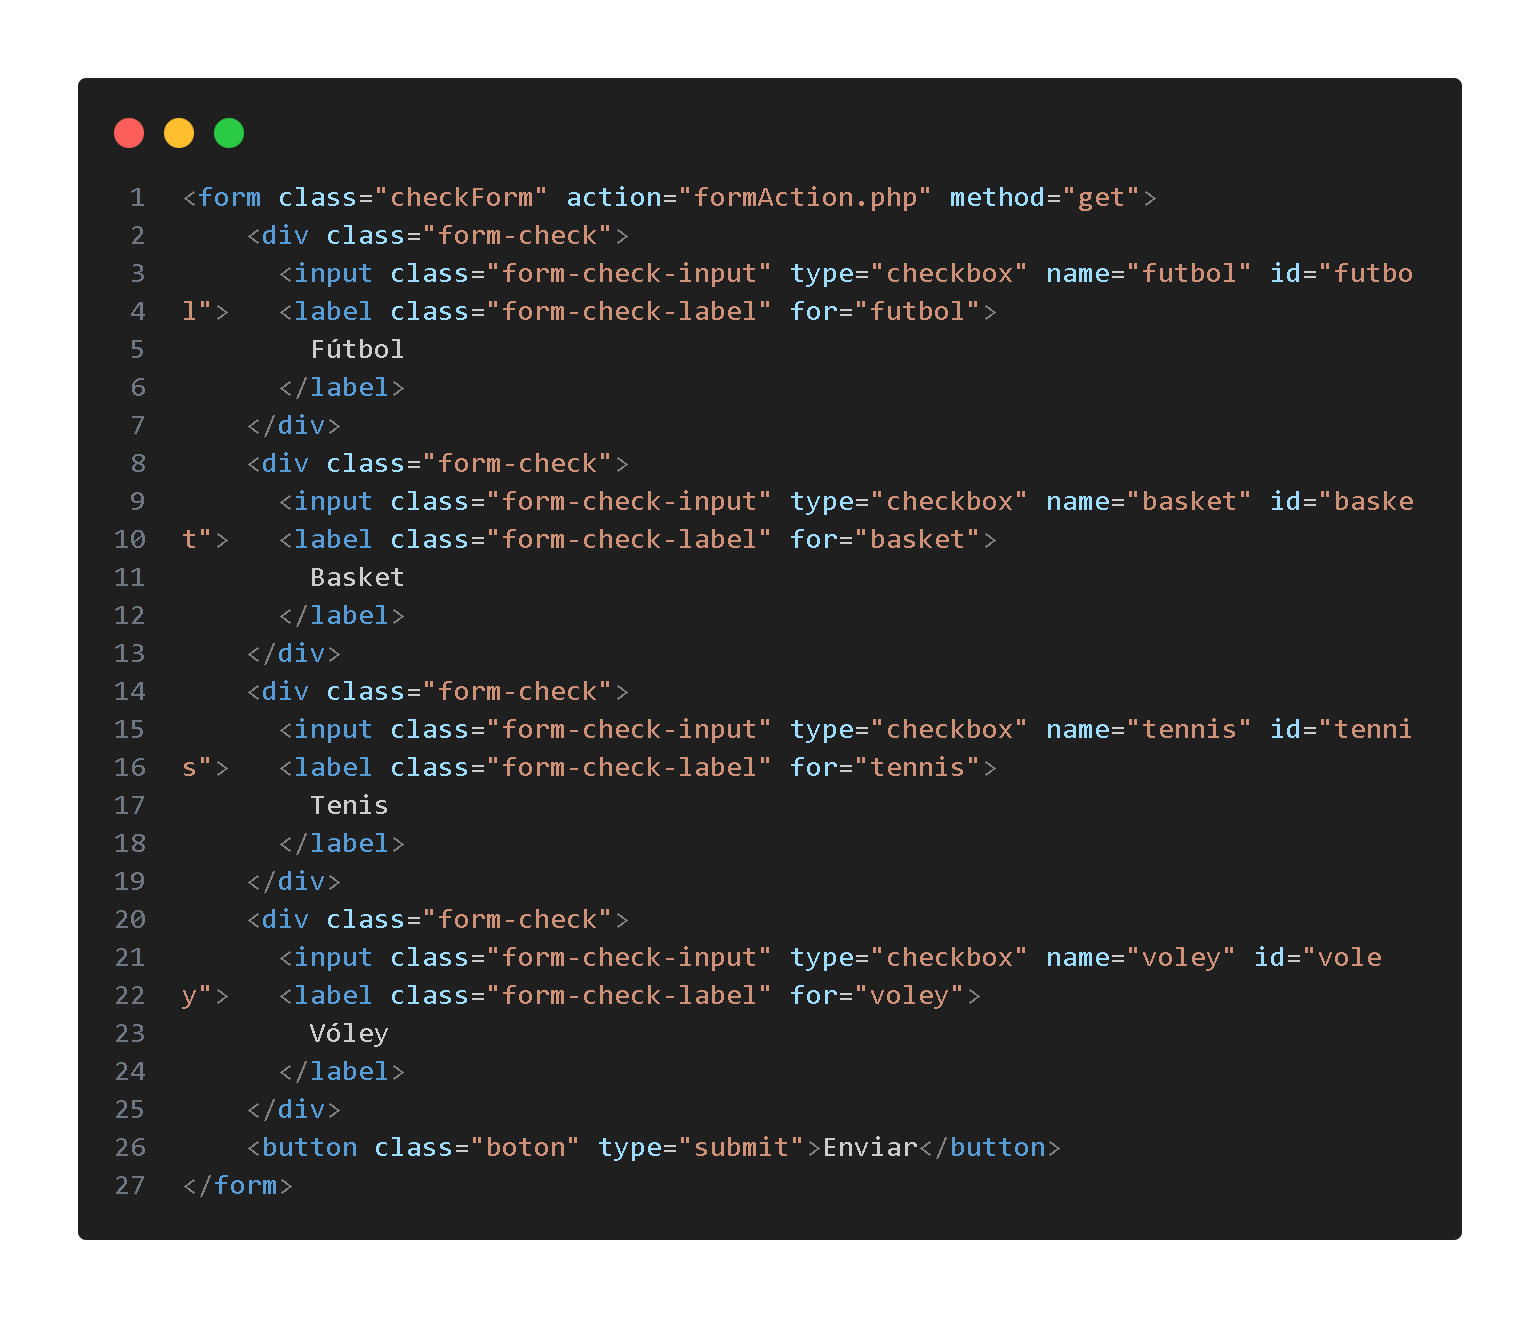
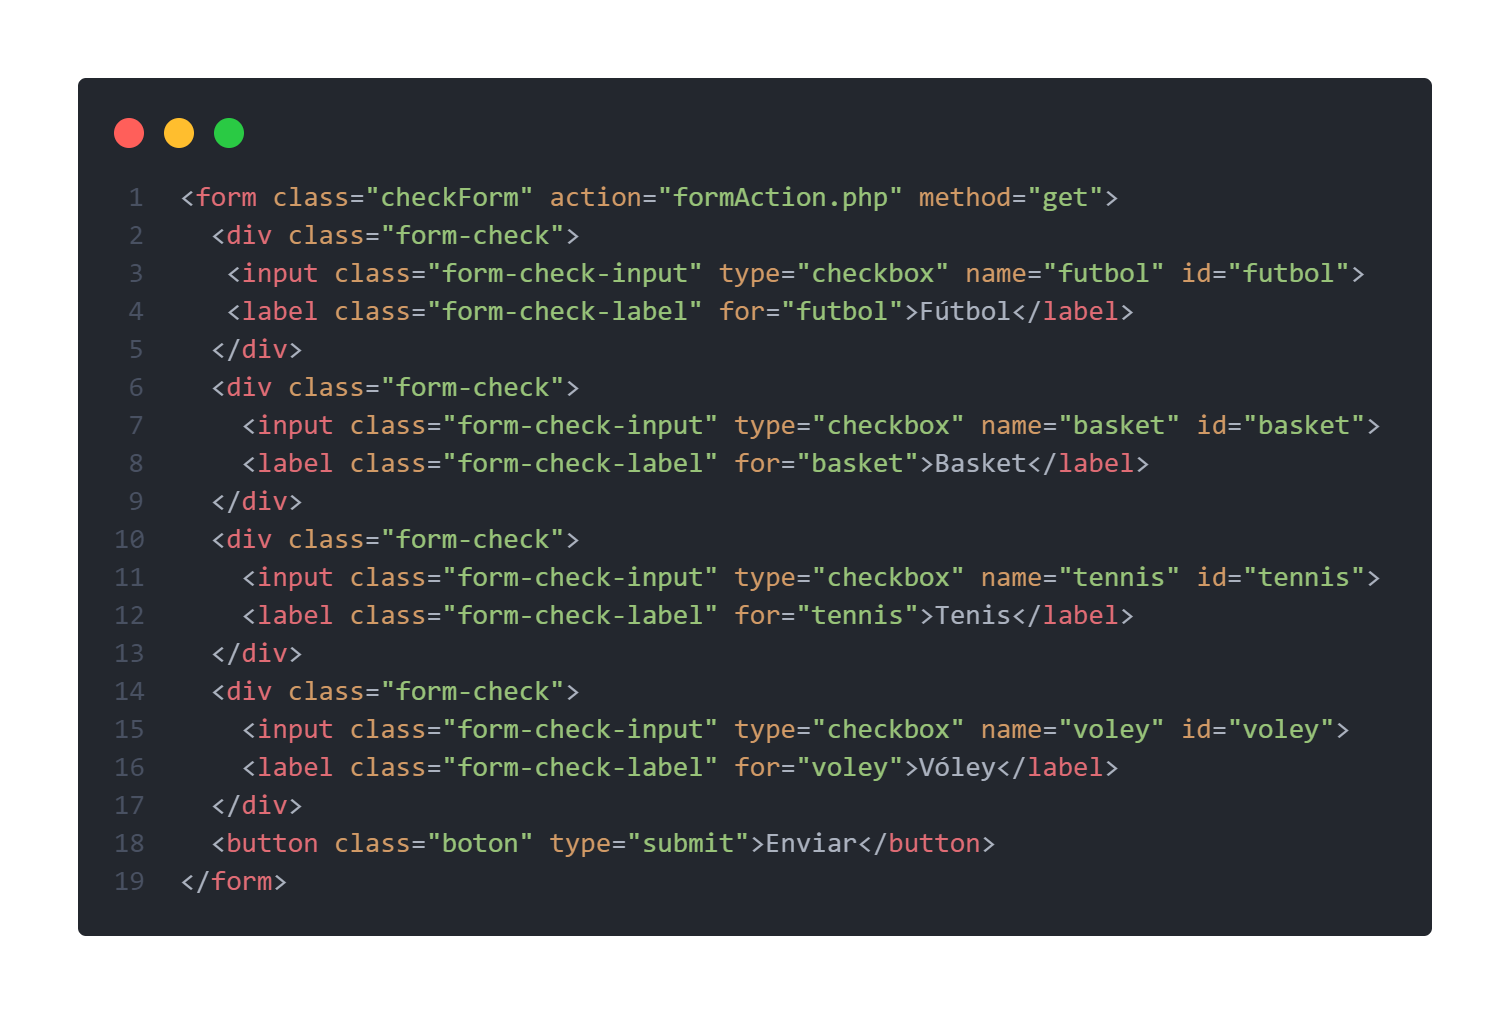
refactor: Corregir rutas de acción en archivos de ejercicio1

diff --git a/index.html b/index.html
@@ -8,7 +8,9 @@
   <!--BOOSTRAP-->
   <link href="https://cdn.jsdelivr.net/npm/bootstrap@5.3.3/dist/css/bootstrap.min.css" rel="stylesheet"
     integrity="sha384-QWTKZyjpPEjISv5WaRU9OFeRpok6YctnYmDr5pNlyT2bRjXh0JMhjY6hW+ALEwIH" crossorigin="anonymous">
-  <script src="https://cdn.jsdelivr.net/npm/bootstrap@5.3.3/dist/js/bootstrap.bundle.min.js" integrity="sha384-YvpcrYf0tY3lHB60NNkmXc5s9fDVZLESaAA55NDzOxhy9GkcIdslK1eN7N6jIeHz" crossorigin="anonymous"></script>
+  <script src="https://cdn.jsdelivr.net/npm/bootstrap@5.3.3/dist/js/bootstrap.bundle.min.js"
+    integrity="sha384-YvpcrYf0tY3lHB60NNkmXc5s9fDVZLESaAA55NDzOxhy9GkcIdslK1eN7N6jIeHz"
+    crossorigin="anonymous"></script>
   <!--BOOSTRAP-->
 
   <link rel="stylesheet" href="style.css?v=2.5">
@@ -23,7 +25,8 @@
     <nav class="container-fluid d-flex rounded-bg shadow-lg">
 
       <div class=" d-flex justify-content-start ">
-        <a class="navbar-brand" href="index.html"><img src="https://cdn-icons-png.flaticon.com/512/8216/8216616.png" alt=""></a>
+        <a class="navbar-brand" href="index.html"><img src="https://cdn-icons-png.flaticon.com/512/8216/8216616.png"
+            alt=""></a>
 
 
         <div class="dropdown me-2 mt-1">

diff --git a/style.css b/style.css
@@ -1,9 +1,16 @@
 html{
     font-family: Arial, Helvetica, sans-serif;
+   
 }
+
+body{
+     cursor:url("../imagenes/cursor.png");
+}
+
 img{
     width:40px;
 }
+
 
 .img-house{
     padding-top: 0;

diff --git a/tp1/ejercicio3/vista/form.php b/tp1/ejercicio3/vista/form.php
@@ -96,28 +96,28 @@
                
                   <div class="col" id="post">
                     
-                    <form action="formAction.php" method="post">
-                        <h1>POST</h1>
-                        Nombre :<input class="form-control ancho-input" type="text" name="nombre" id="" style="display:block" placeholder="Nombre">
-                        Apellido : <input class="form-control ancho-input" type="text" name="apellido" id="" style="display:block" placeholder="Apellido">
-                        Edad :<input class="form-control ancho-input" type="number" name="edad" id="" style="display:block" placeholder="Edad">
-                        Direcion : <input class="form-control ancho-input" type="text" name="direccion" id="" style="display:block" placeholder="Direccion">
-                        <button type="submit" class="boton">Enviar</button>                    
-                    </form>
+<form action="formAction.php" method="post">
+  <h1>POST</h1>
+    Nombre :<input class="form-control ancho-input" type="text" name="nombre" id="" style="display:block" placeholder="Nombre">
+    Apellido : <input class="form-control ancho-input" type="text" name="apellido" id="" style="display:block" placeholder="Apellido">
+    Edad :<input class="form-control ancho-input" type="number" name="edad" id="" style="display:block" placeholder="Edad">
+    Direcion : <input class="form-control ancho-input" type="text" name="direccion" id="" style="display:block" placeholder="Direccion">
+    <button type="submit" class="boton">Enviar</button>                    
+</form>
 
                   </div>
                   
                   <div class="col" id="get">
-                    <form action="formAction.php" method="get">
-                        <h1>GET</h1>
-                        Nombre : <input class="form-control ancho-input" type="text" name="nombre" id="" style="display:block" placeholder="Nombre">
-                        Apellido : <input class="form-control ancho-input" type="text" name="apellido" id="" style="display:block" placeholder="Apellido">
-                        Edad :<input class="form-control ancho-input" type="number" name="edad" id="" style="display:block" placeholder="Edad">
-                        Direcion :  <input class="form-control ancho-input" type="text" name="direccion" id="" style="display:block" placeholder="Direccion">
-                        <button type="submit" class="boton">Enviar</button>
-                    </form>
+<form action="formAction.php" method="get">
+  <h1>GET</h1>
+    Nombre : <input class="form-control ancho-input" type="text" name="nombre" id="" style="display:block" placeholder="Nombre">
+    Apellido : <input class="form-control ancho-input" type="text" name="apellido" id="" style="display:block" placeholder="Apellido">
+    Edad :<input class="form-control ancho-input" type="number" name="edad" id="" style="display:block" placeholder="Edad">
+    Direcion :  <input class="form-control ancho-input" type="text" name="direccion" id="" style="display:block" placeholder="Direccion">
+    <button type="submit" class="boton">Enviar</button>
+</form>
                   </div>
-                </div>
+                </div>w
             </div>
         </div>
       <div class="fotosPostGet">

diff --git a/tp1/ejercicio6/vista/form.php b/tp1/ejercicio6/vista/form.php
@@ -90,33 +90,25 @@
 
         <div class="row  mt-5">
             <div id="contenedorEj6"class="col">
-                <form class="checkForm" action="formAction.php" method="get">
-                    <div class="form-check">
-                      <input class="form-check-input" type="checkbox" name="futbol" id="futbol">
-                      <label class="form-check-label" for="futbol">
-                        Fútbol
-                      </label>
-                    </div>
-                    <div class="form-check">
-                      <input class="form-check-input" type="checkbox" name="basket" id="basket">
-                      <label class="form-check-label" for="basket">
-                        Basket
-                      </label>
-                    </div>
-                    <div class="form-check">
-                      <input class="form-check-input" type="checkbox" name="tennis" id="tennis">
-                      <label class="form-check-label" for="tennis">
-                        Tenis
-                      </label>
-                    </div>
-                    <div class="form-check">
-                      <input class="form-check-input" type="checkbox" name="voley" id="voley">
-                      <label class="form-check-label" for="voley">
-                        Vóley
-                      </label>
-                    </div>
-                    <button class="boton" type="submit">Enviar</button>
-                </form>
+<form class="checkForm" action="formAction.php" method="get">
+  <div class="form-check">
+   <input class="form-check-input" type="checkbox" name="futbol" id="futbol">
+   <label class="form-check-label" for="futbol">Fútbol</label>
+  </div>
+  <div class="form-check">
+    <input class="form-check-input" type="checkbox" name="basket" id="basket">
+    <label class="form-check-label" for="basket">Basket</label>
+  </div>
+  <div class="form-check">
+    <input class="form-check-input" type="checkbox" name="tennis" id="tennis">
+    <label class="form-check-label" for="tennis">Tenis</label>
+  </div>
+  <div class="form-check">
+    <input class="form-check-input" type="checkbox" name="voley" id="voley">
+    <label class="form-check-label" for="voley">Vóley</label>
+  </div>
+  <button class="boton" type="submit">Enviar</button>
+</form>
             </div>
         </div>
 

diff --git a/tp1/ejercicio4/vista/form.php b/tp1/ejercicio4/vista/form.php
@@ -94,14 +94,14 @@
                 
                 <div class="col" id="contenedorUno">
                   
-                    <form action="formAction.php" class="formulario" method="get">
-                        <h1>GET</h1>
-                        Nombre : <input class="form-control ancho-input" type="text" name="nombre" id="" style="display:block" placeholder="Nombre">
-                        Apellido : <input class="form-control ancho-input" type="text" name="apellido" id="" style="display:block" placeholder="Apellido">
-                        Edad :<input class="form-control ancho-input" type="number" name="edad" id="" style="display:block" placeholder="Edad">
-                        Direcion :  <input class="form-control ancho-input" type="text" name="direccion" id="" style="display:block" placeholder="Direccion">
-                        <button type="submit" class="boton">Enviar</button>
-                    </form>
+                  <form action="formAction.php" class="formulario" method="get">
+                    <h1>GET</h1>
+                      Nombre : <input class="form-control ancho-input" type="text" name="nombre" id="" style="display:block" placeholder="Nombre">
+                      Apellido : <input class="form-control ancho-input" type="text" name="apellido" id="" style="display:block" placeholder="Apellido">
+                      Edad :<input class="form-control ancho-input" type="number" name="edad" id="" style="display:block" placeholder="Edad">
+                      Direcion :  <input class="form-control ancho-input" type="text" name="direccion" id="" style="display:block" placeholder="Direccion">
+                      <button type="submit" class="boton">Enviar</button>
+                  </form>
                 </div>
             </div>
         </div>
@@ -109,11 +109,10 @@
         <div class="row  mt-5" id="getfoto">
                 <div class="col">
                   <h1>GET</h1>
-                  <img src="../../../imagenes/form3Get.png" alt="" class="img-codigo">
+                  <img src="../../../imagenes/form4Get.png" alt="" class="img-codigo">
                 </div>
         </div>
         </div>
-
         </div>
 
 

diff --git a/tp1/ejercicio7/vista/form.php b/tp1/ejercicio7/vista/form.php
@@ -93,27 +93,22 @@
             <div class="col">
                 <h1>Resolucion:</h1>
 
-                <form action="formAction.php" method="get">
-                    
-                    <label for="">Ingrese un numero X</label>
-                    
-                    <input class="form-control ancho-input" type="text" name="numUno" id="">
-                    <br>
-                    <label for="">Ingrese un numero Y</label>
-                    <br>
-                    <input class="form-control ancho-input" type="text" name="numDos" id="">
-                    <br>
-
-                    <select class="form-select ancho-input" name="selects" id="">
-                        <option value="sumar">Sumar</option>
-                        <option value="restar">Restar</option>
-                        <option value="multiplicar">Multiplicar</option>
-                    </select>
-                    
-                    <br>
-                    <input class="boton" type="submit" name="" id="">
-                  
-                </form>
+<form action="formAction.php" method="get">
+  <label for="">Ingrese un numero X</label>
+  <input class="form-control ancho-input" type="text" name="numUno" id="">
+  <br>
+  <label for="">Ingrese un numero Y</label>
+  <br>
+  <input class="form-control ancho-input" type="text" name="numDos" id="">
+  <br>
+  <select class="form-select ancho-input" name="selects" id="">
+      <option value="sumar">Sumar</option>
+      <option value="restar">Restar</option>
+      <option value="multiplicar">Multiplicar</option>
+  </select>
+  <br>
+  <input class="boton" type="submit" name="" id="">
+</form>
 
             </div>
         </div>

diff --git a/tp1/ejercicio8/vista/form.php b/tp1/ejercicio8/vista/form.php
@@ -98,23 +98,22 @@
 
         <div id="contenedorEj6"class="row  mt-5">
             <div class="col">
-                <h1>Resolucion:</h1>
-                <h1>Cinem@s</h1>
-                <form action="formAction.php" method="post">
-
-                    <label for="">Ingrese la edad</label>
-                    <br>
-                    <input class="form-control ancho-input"type="text" name="edad" id="">
-                    <br>
-                    <select class="form-select ancho-input" name="selects" id="">
-                        <option value="ninguno">Ninguno</option>
-                        <option value="estudiante">Estudiante</option>
-                    </select>
-                    <br>
-                    <input class="boton" type="submit" name="" id="">
-                    <input class="botonDos" type="reset" name="" id="">
-
-                </form>
+                
+<form action="formAction.php" method="post">
+  <h1>Resolucion:</h1>
+  <h1>Cinem@s</h1>
+  <label for="">Ingrese la edad</label>
+  <br>
+  <input class="form-control ancho-input"type="text" name="edad" id="">
+  <br>
+  <select class="form-select ancho-input" name="selects" id="">
+      <option value="ninguno">Ninguno</option>
+      <option value="estudiante">Estudiante</option>
+  </select>
+  <br>
+  <input class="boton" type="submit" name="" id="">
+  <input class="botonDos" type="reset" name="" id="">
+</form>
             </div>
         </div>
 

diff --git a/tp1/ejercicio5/vista/form.php b/tp1/ejercicio5/vista/form.php
@@ -94,12 +94,12 @@
 <div class="row  mt-5">
  <div class="col" id="contenedor">
      
-     <form action="formAction.php" method="get">
-      Nombre : <input class="form-control ancho-input" type="text" name="nombre" id="" style="display:block">
-      Apellido : <input class="form-control ancho-input" type="text" name="apellido" id="" style="display:block">
-      Edad :<input  class="form-control ancho-input"type="number" name="edad" id="" style="display:block">
-      Direccion : <input  class="form-control ancho-input" type="text" name="direccion" id="" style="display:block">
-      
+<form action="formAction.php" method="get">
+  Nombre : <input class="form-control ancho-input" type="text" name="nombre" id="" style="display:block">
+  Apellido : <input class="form-control ancho-input" type="text" name="apellido" id="" style="display:block">
+  Edad :<input  class="form-control ancho-input"type="number" name="edad" id="" style="display:block">
+  Direccion : <input  class="form-control ancho-input" type="text" name="direccion" id="" style="display:block">
+</form>
       <ul class="list-unstyled">
     <li>
       <div class="form-check">
